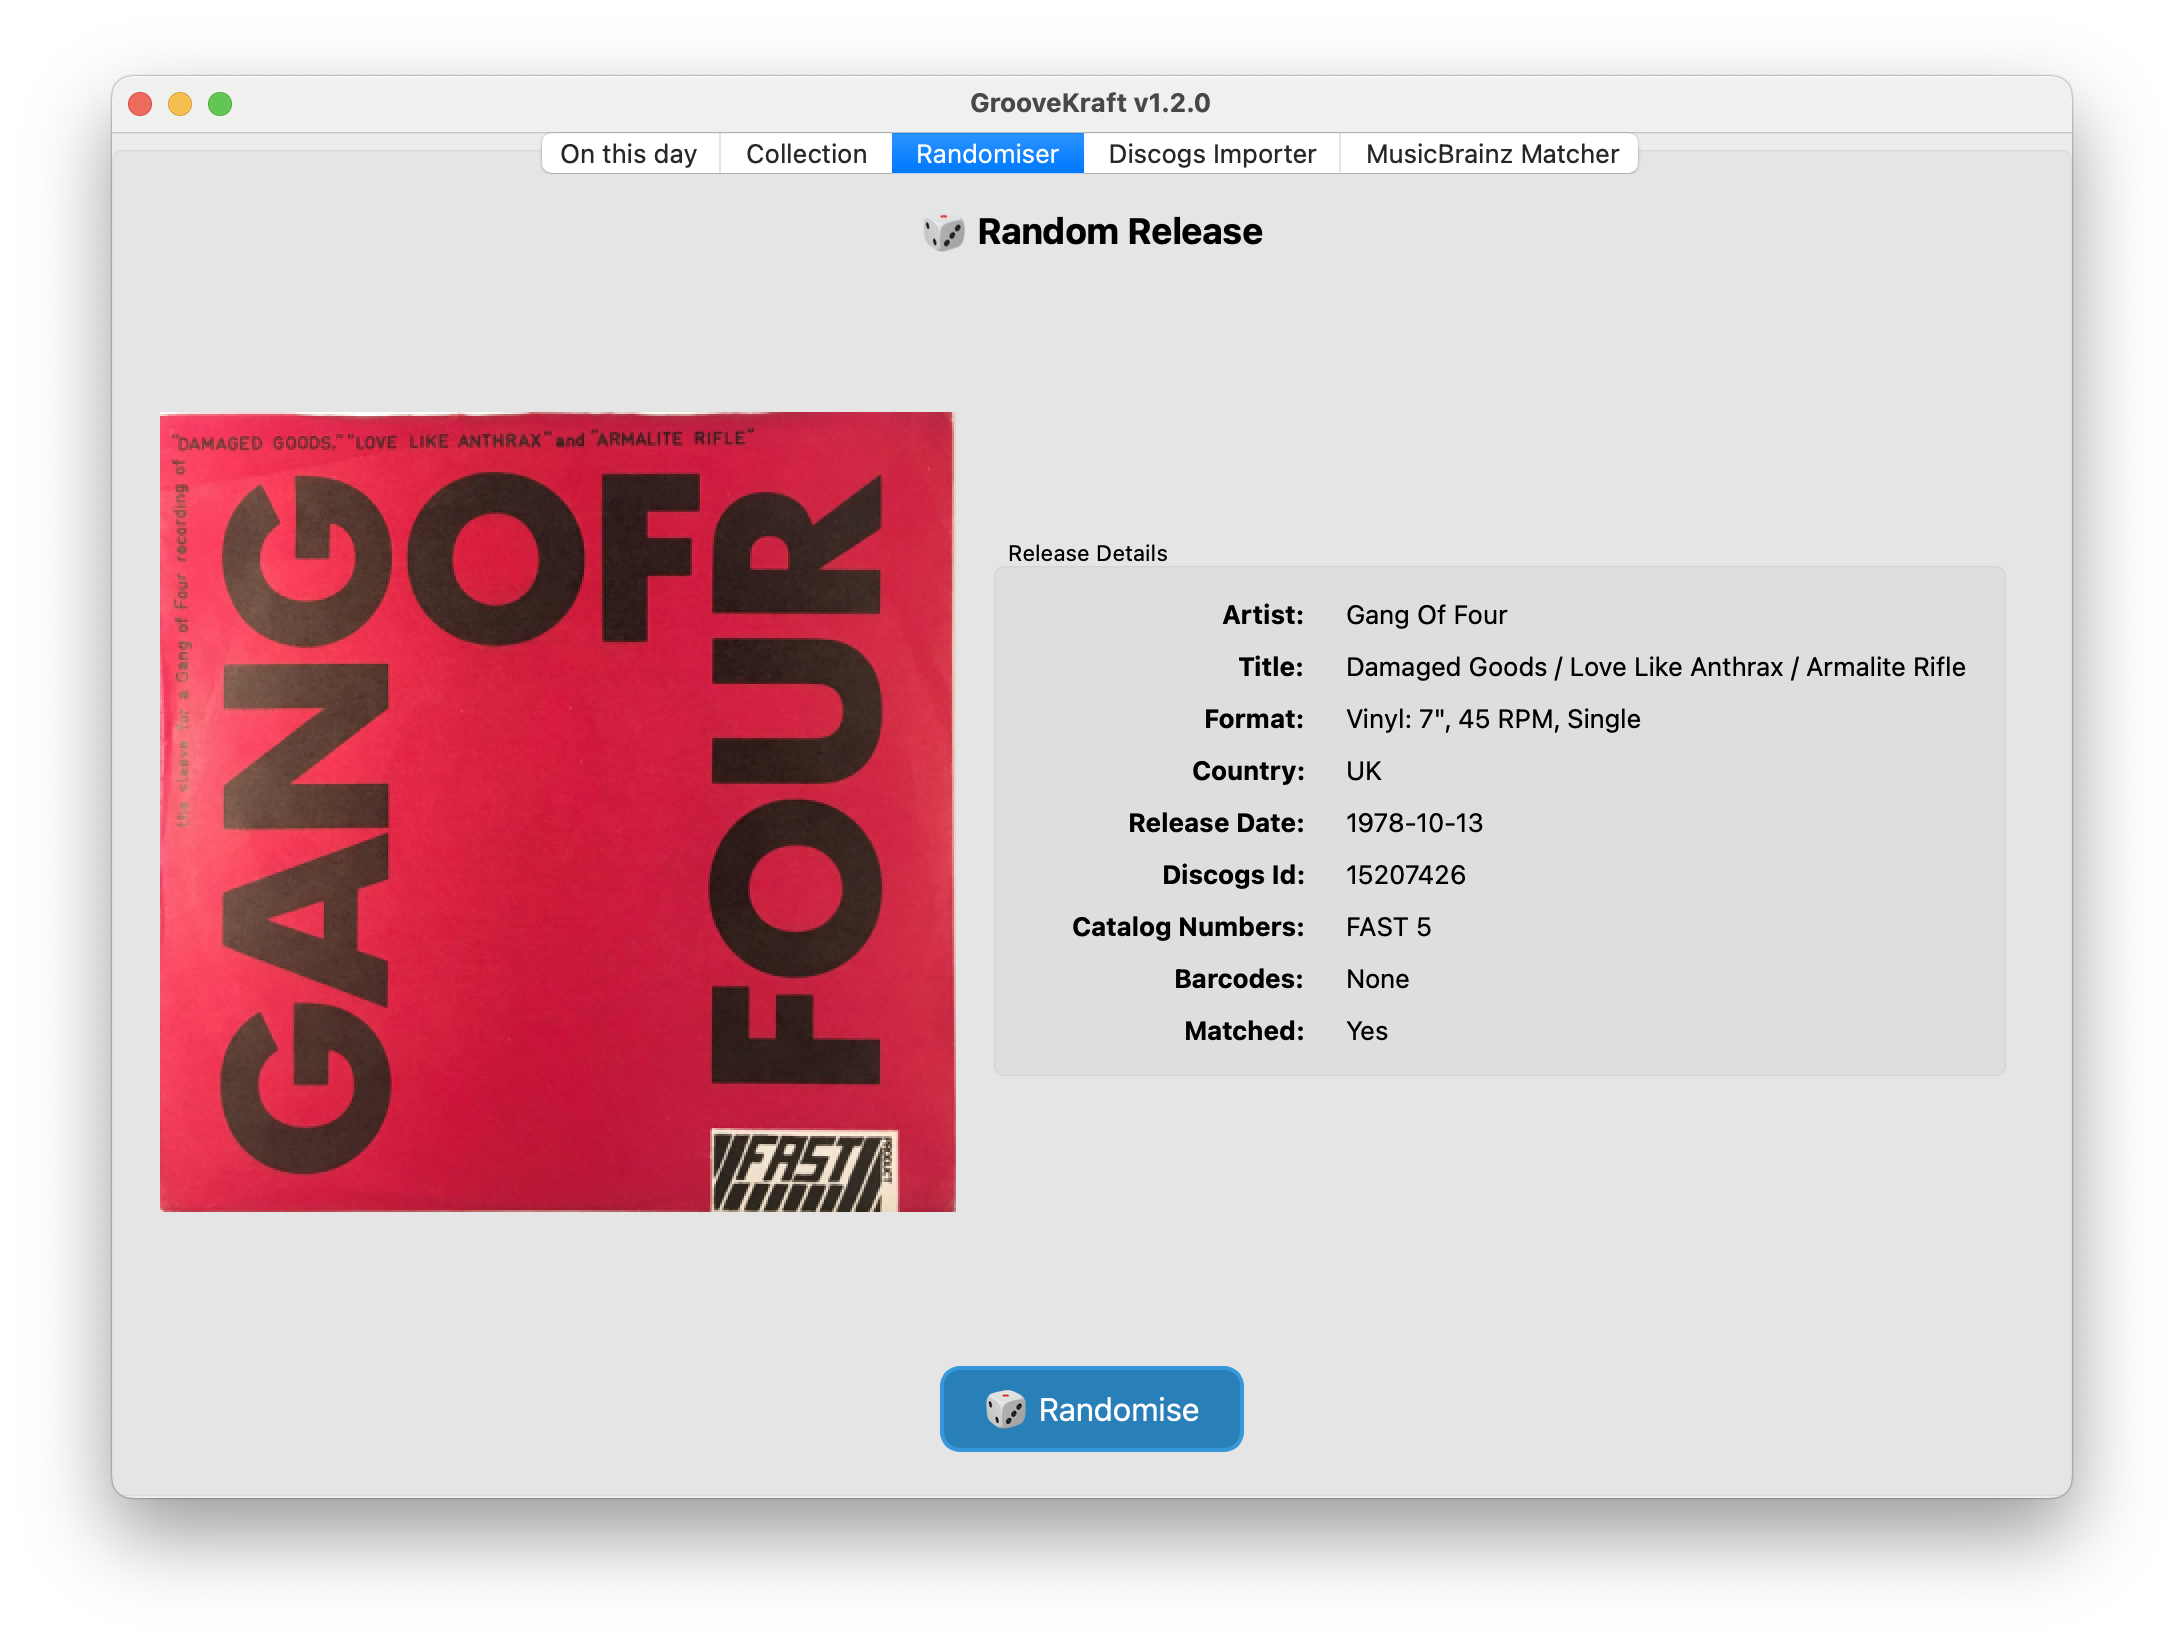
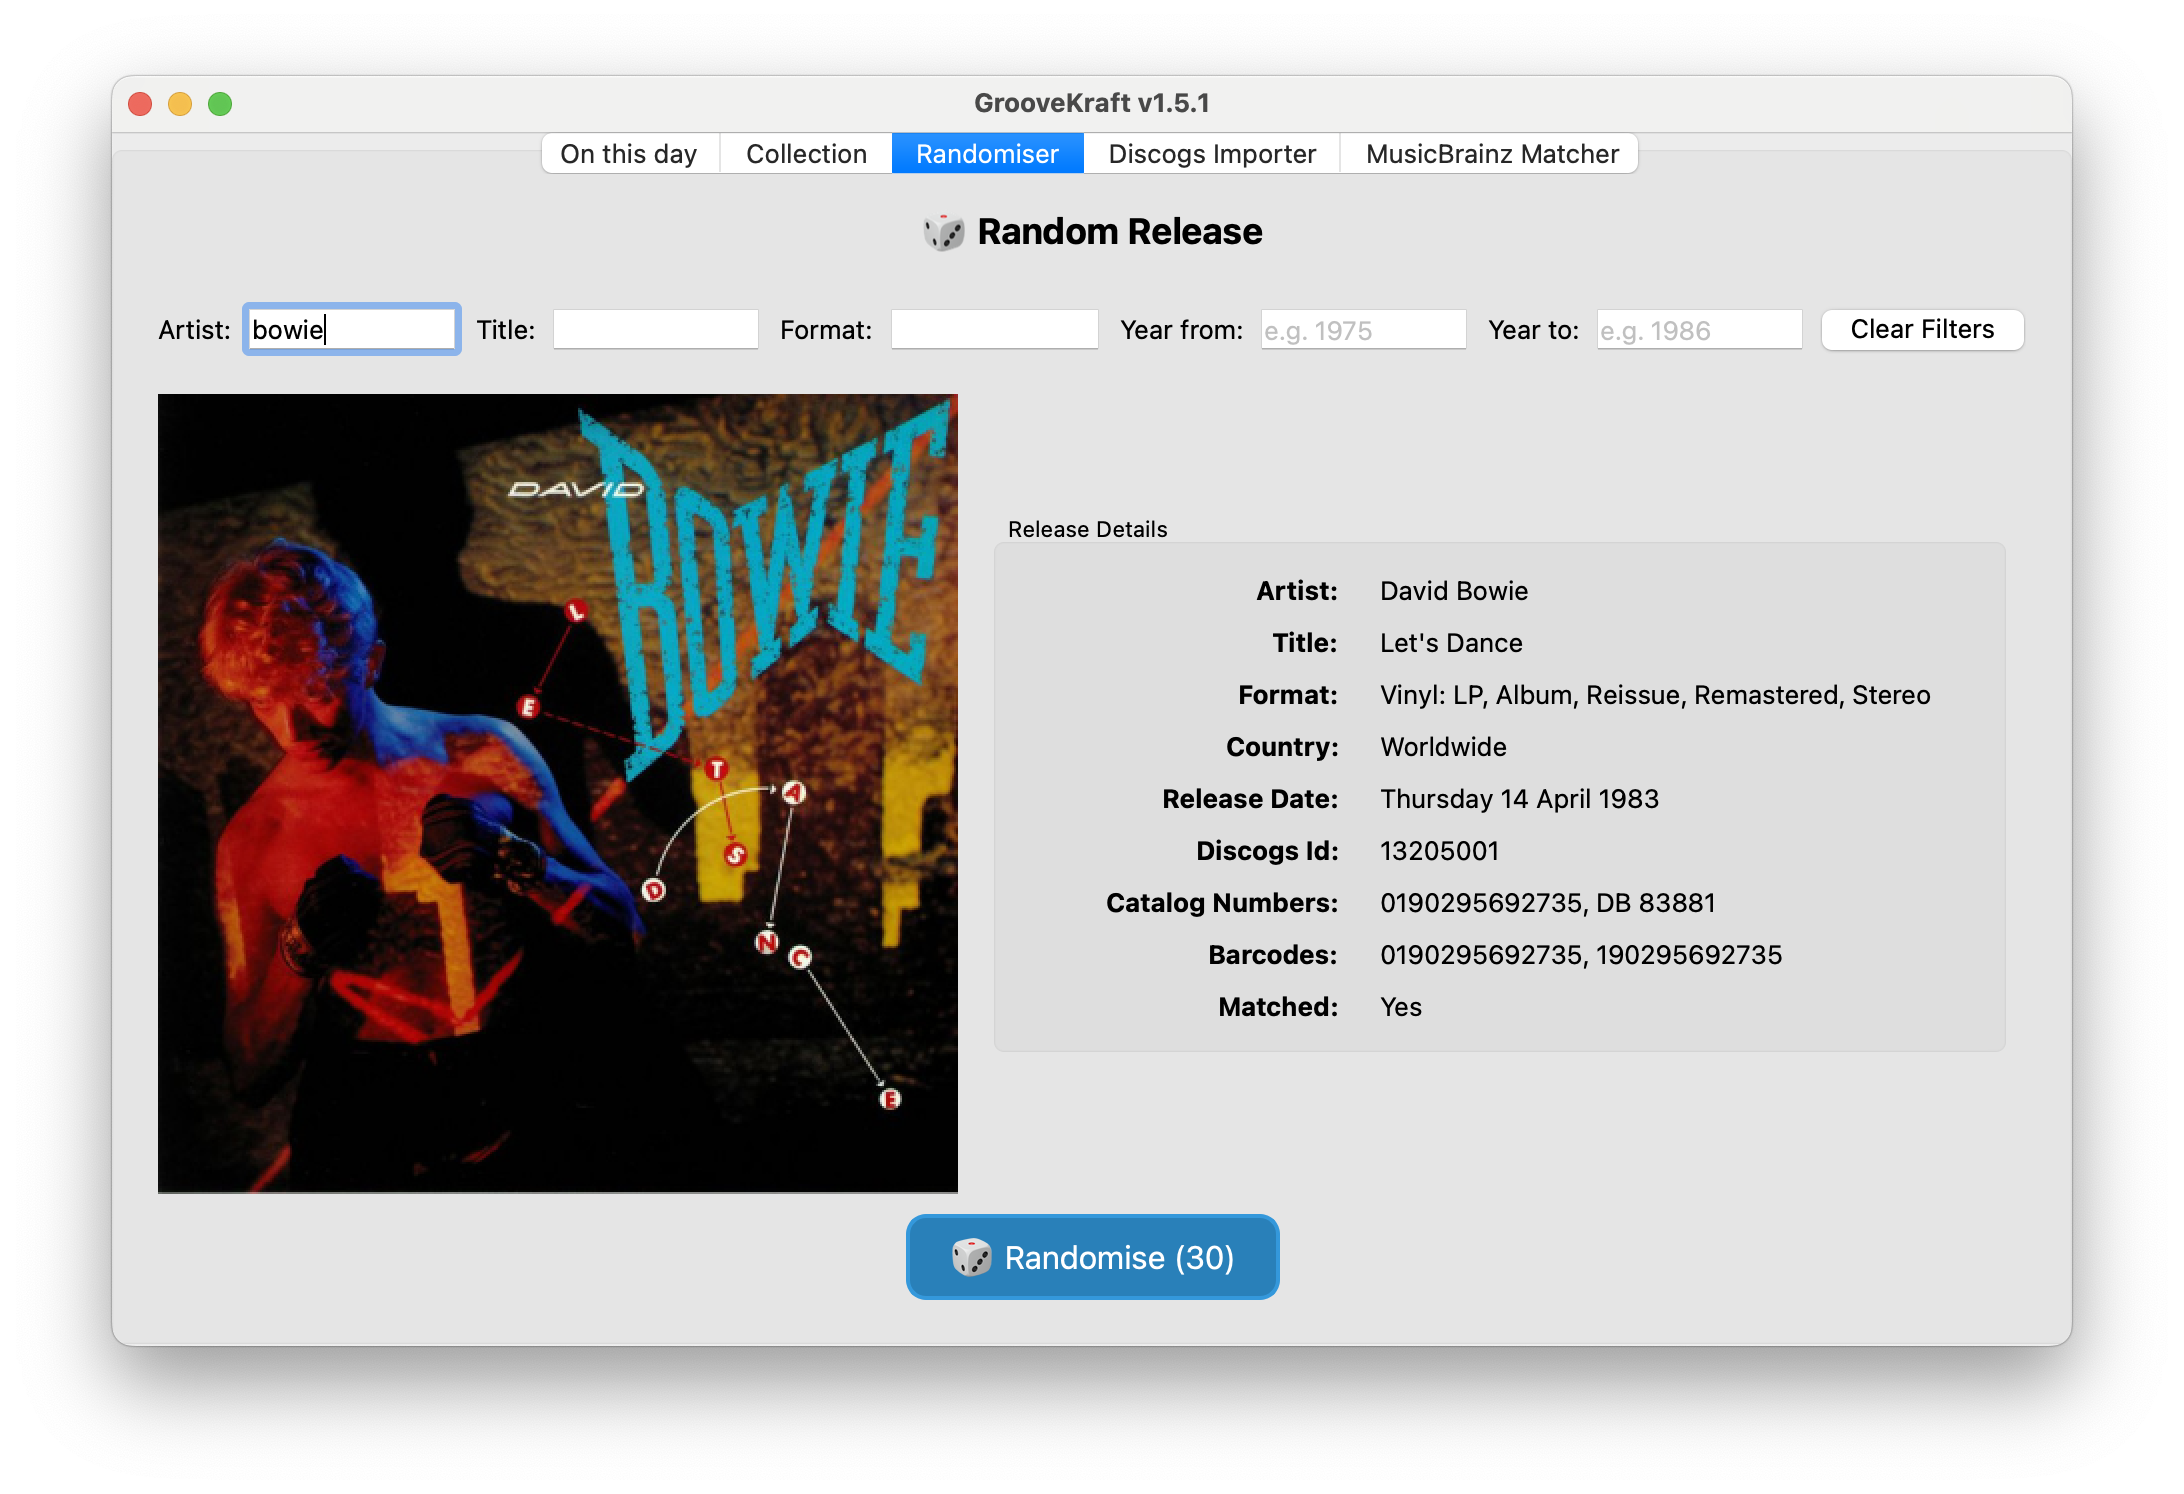
better release date display

Changed region(s): [[0.0623, 0.0308, 0.9341, 0.9237], [0.4982, 0.3695, 0.9029, 0.6774], [0.0623, 0.0308, 0.1245, 0.0924]]

diff --git a/shared/gui.py b/shared/gui.py
@@ -1087,7 +1087,20 @@ class CollectionViewer(QMainWindow):
                 row = cur.fetchone()
 
                 if row:
-                    data = dict(zip(self.detail_widget.labels.keys(), row))
+                    # Format release date to be more user-friendly
+                    release_human = parse_and_humanize_date(row.release_date)
+                    release_delta = humanize_date_delta(row.release_date)
+                    data = {
+                        'Artist': row.artist,
+                        'Title': row.title,
+                        'Format': row.format,
+                        'Country': row.country,
+                        'Release Date': f"{release_human}",
+                        'Discogs Id': row.discogs_id,
+                        'Catalog Numbers': row.catnos,
+                        'Barcodes': row.barcodes,
+                        'Matched': 'Yes' if row.mbid else 'No'
+                    }
                     self.detail_widget.update_data(data)
 
                     # Load image for the chosen discogs_id

diff --git a/shared/version.py b/shared/version.py
@@ -1,1 +1,1 @@
-__version__ = "1.5.0"
+__version__ = "1.5.1"
